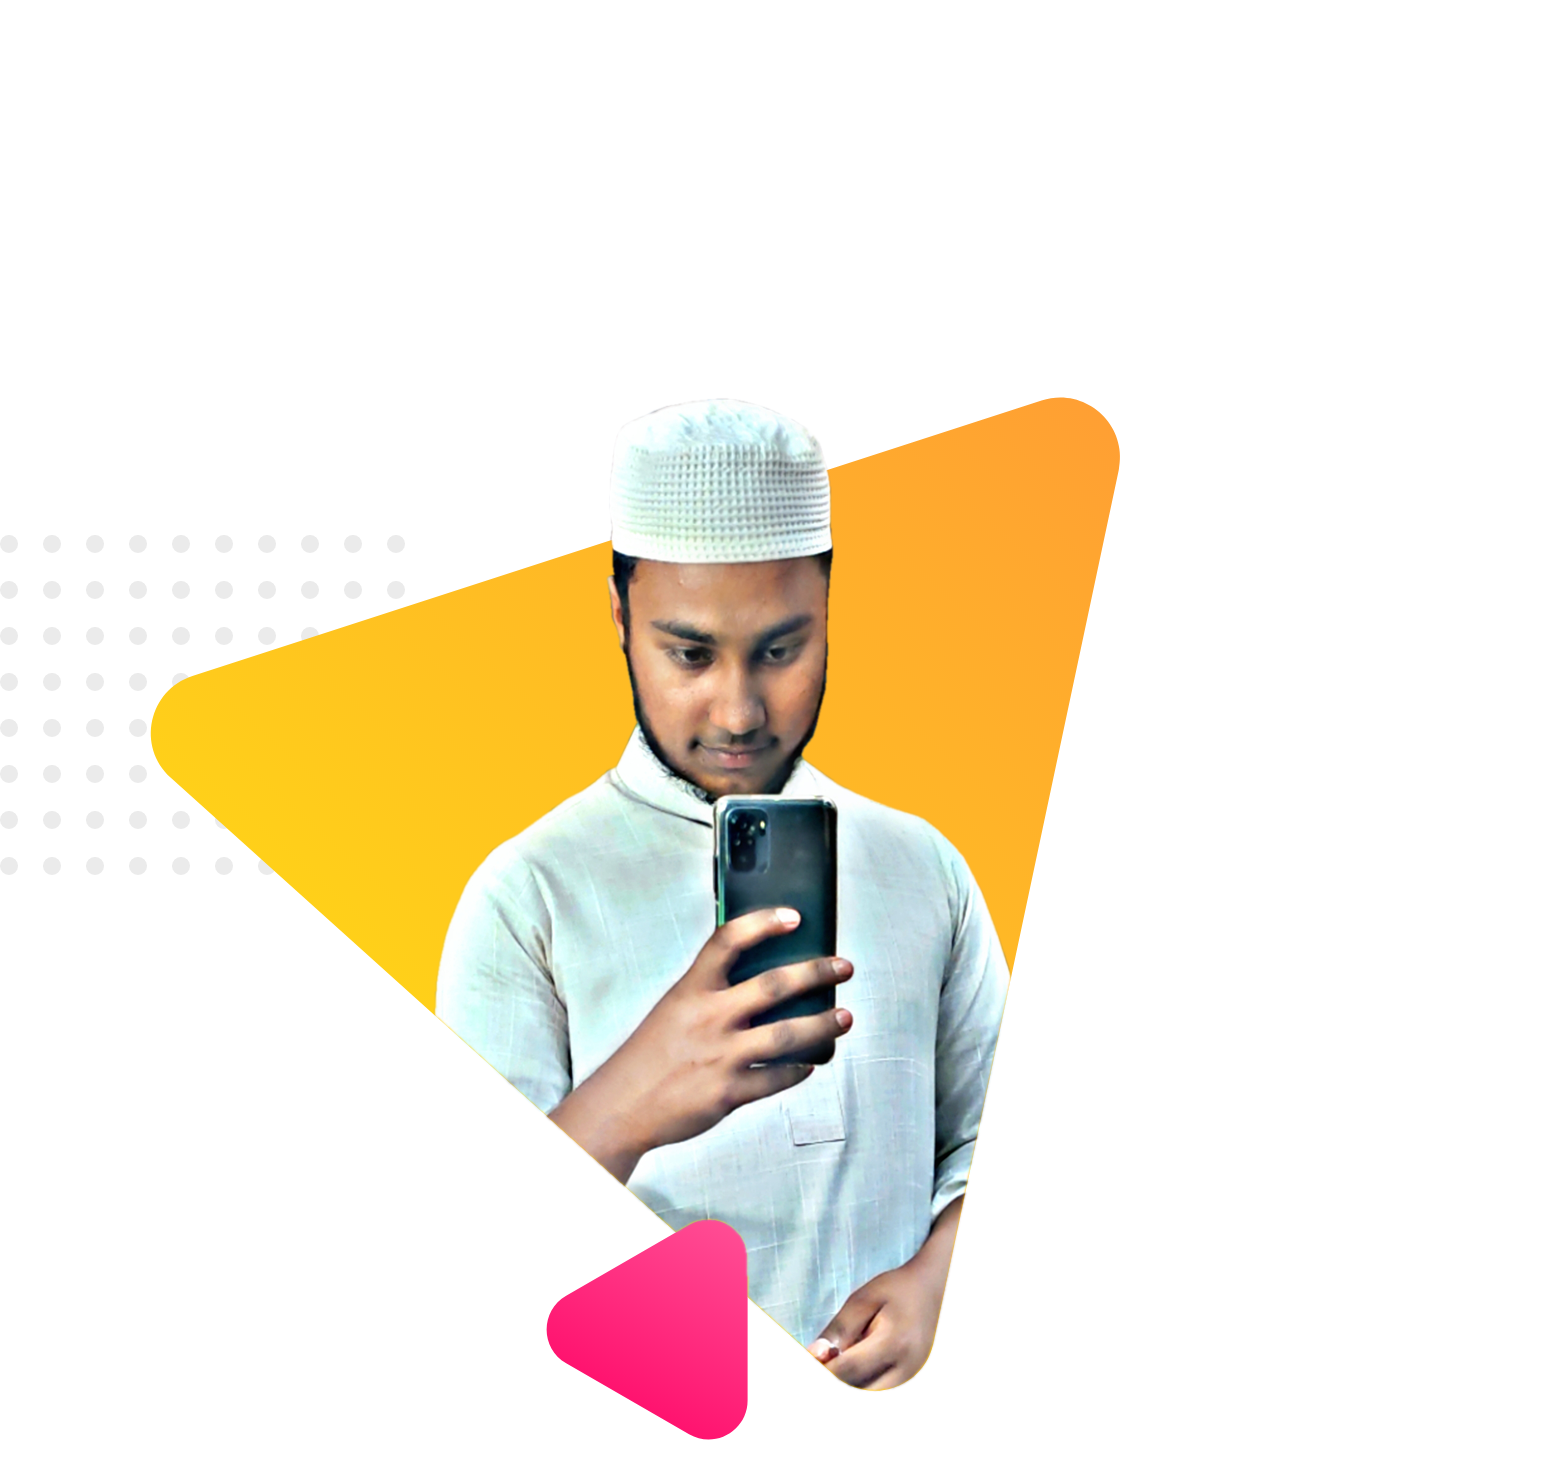
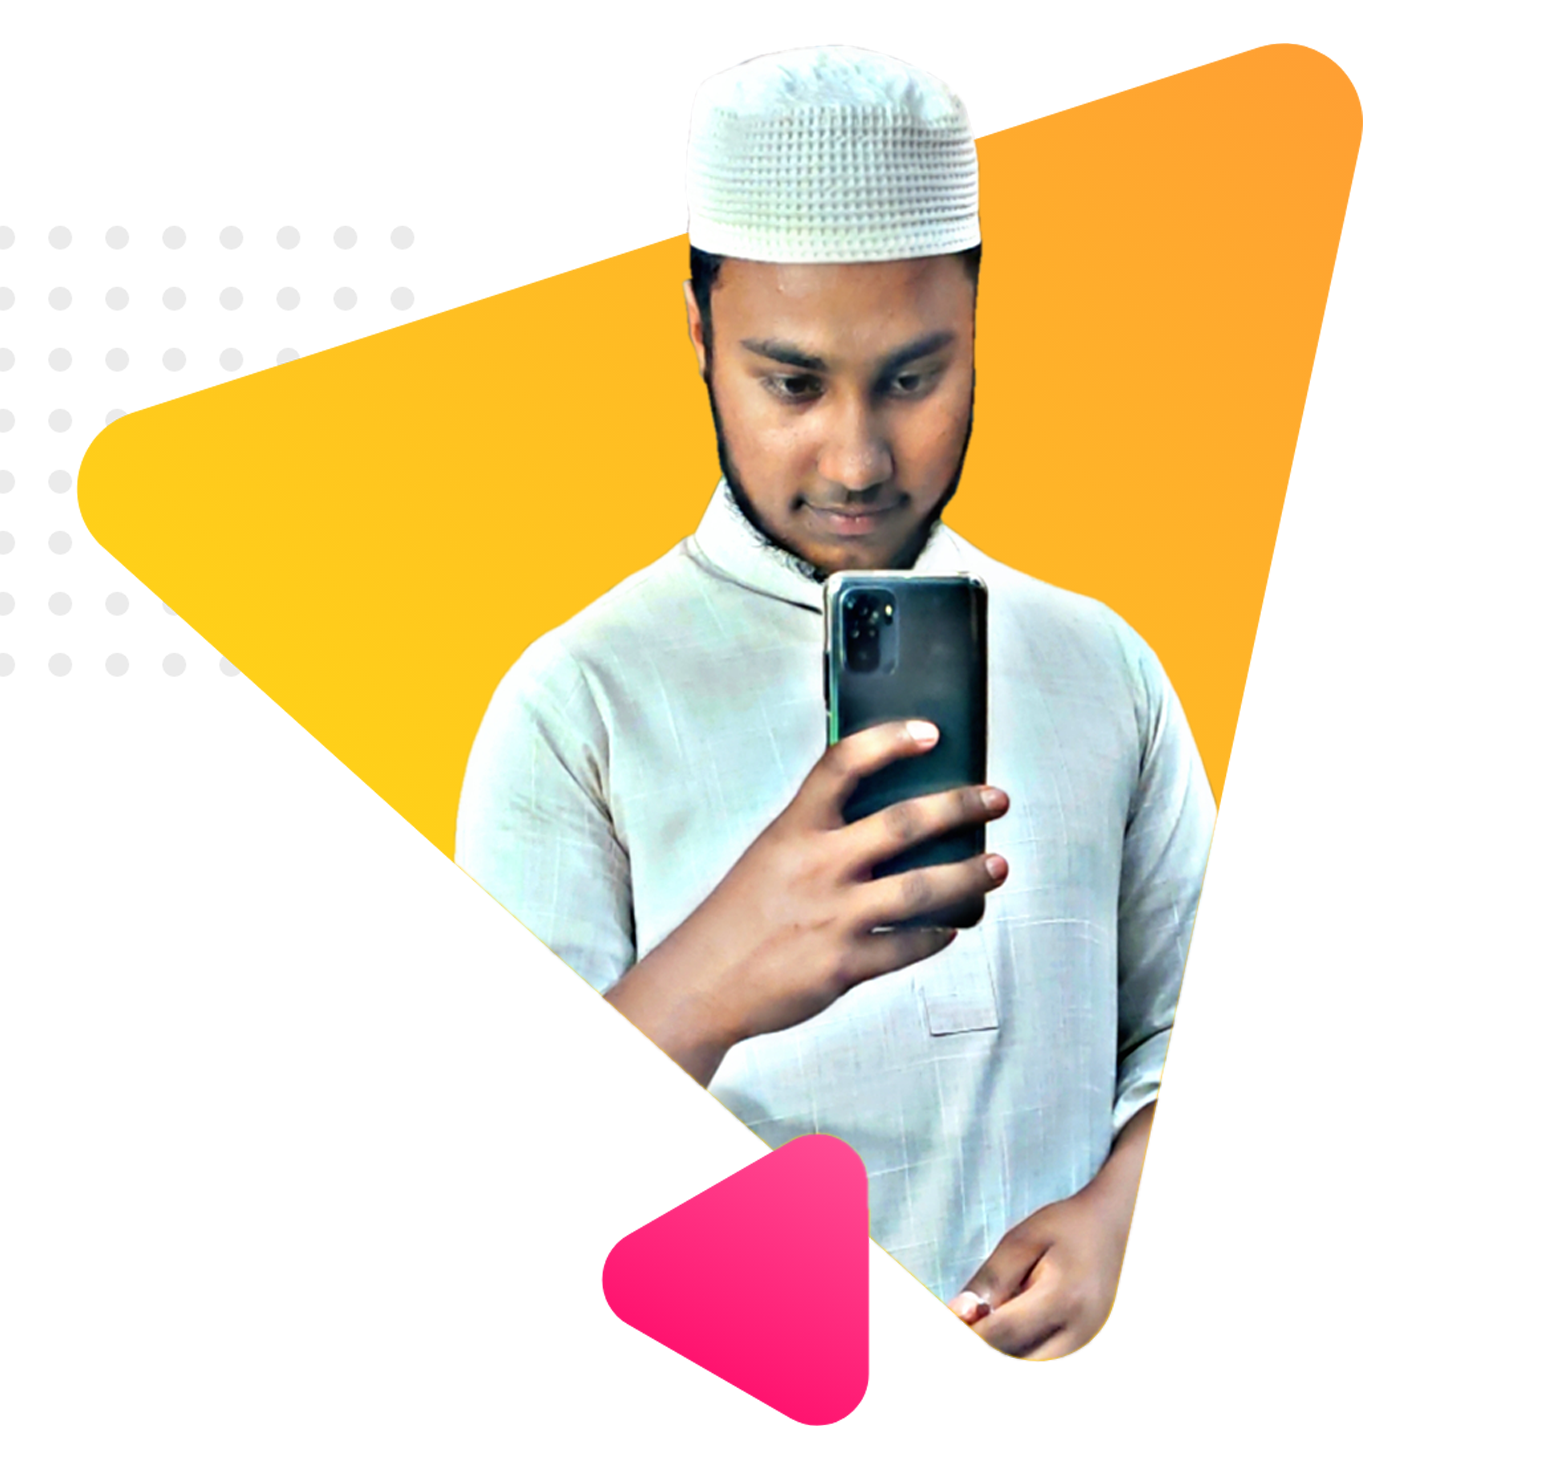
full update

diff --git a/index.html b/index.html
@@ -5,10 +5,94 @@
     <meta http-equiv="X-UA-Compatible" content="IE=edge">
     <meta name="viewport" content="width=device-width, initial-scale=1.0">
     <title>Robiul-Alam</title>
+
+    <link href="https://fonts.googleapis.com/css2?family=Lato&display=swap" rel="stylesheet">
+
+    <link rel="stylesheet" href="css-file.css">
 </head>
 <body>
 
-    <p>welcome to my site</p>
+    <section class="first-area">
+        <div id="padding" class="first-cotainer">
+            <h2>Hello I'm</h2>
+            <h1>Robiul Alam</h1>
+            <p class="paragraph">You might saw me jumping , climbing buildings , and stopping trains. <br> 
+            But nobody pays me a dime for that work .</p>
+
+            <a target="_blank" class="hire-me" href="https://web.facebook.com/MuhammadRobiulIslam76">HIRE ME</a>
+
+        </div>
+                
+
+        <div class="first-cotainer">
+            <img src="image/FIRST-profile.png" alt="">
+
+        </div>
+    </section>
+
+                                                                                                    
+
+
+<section class="secend-area">
+        <div class="secend-container">
+            <img src="image/secend-profile.png" alt="">
+    
+        </div>
+
+
+    <div id="secend-padding" class="secend-container">
+        <h1 class="title">Biography</h1>
+        <p class="paragraph">Lorem Ipsum is simply dummy text of the printing and typesetting industry . Lorem Ipsum has been the industry's standard dummy text ever since the 1500s , when an unknown printer took a galley of type and scrambled it to make a type</p>
+
+        <a target="_blank" class="download-cv" href="https://web.facebook.com/MuhammadRobiulIslam76">DOWNLOAD CV</a>
+    </div>
+
+</section>
+
+
+<section class="last-area">
+    <h2 class="letest-work">My Letest work</h2>
+
+<div id="ll">
+
+    <div class="last-container">
+        <img src="image/work-1.png" alt="">
+    </div>
+
+    <div class="last-container">
+        <img src="image/work-2.jpg" alt="">
+    </div>
+
+    <div class="last-container">
+        <img src="image/work-3.jpg" alt="">
+    </div>
+
+</div>
+</section>
+
+<section class="end">
+    <div class="last-title">
+        <h2>What Client are Say</h2>
+        <br>
+        <h5>Tuhfa Studio</h5>
+        <p id="ceo">Founder & ceo</p>
+
+        <p>Amar Sonar Bangla Ami Tomai Valobhashi <br>
+           Chirodin tomar Akash Tomar batash</p>
+    </div> <br>
+
+    <div class="last-text">
+        <p>Leave Me Message in the</p>
+        <h4>www.robiulislam76248546@gmail.com</h4>
+    </div> <br>
+    <div>
+        <p id="footer">Robiul Alam @ 2022 all Right Reseved</p>
+    </div>
+</section>
     
 </body>
+
+<footer>
+    
+</footer>
 </html>

diff --git a/css-file.css b/css-file.css
@@ -1,0 +1,133 @@
+body{
+    font-family: 'Lato', sans-serif;
+    margin: 0%;
+}
+
+h1{
+    font-size: 45px;
+    color: #ec4c7a;
+}
+
+.paragraph{
+    color: gray;
+}
+
+.first-cotainer{
+        padding-top: 150px;
+        width: 40%;
+        margin-left: 5%;
+        float: left;
+}
+#padding{
+    padding-left: 100px;
+}
+img{
+    width: 100%;
+    
+}
+.hire-me{
+    text-decoration: none;
+    font-weight: 800;
+    background-color: #ec4c7a;
+    border-radius: 5px;
+    color: white;
+    padding: 10px 30px;
+}
+
+.first-area{
+    background-image: url("image/first bg.png");
+    background-repeat: no-repeat;
+    height: 500px;
+}
+/*====================================================================================*/
+
+.secend-container{
+    margin-top: 70px;
+    width: 40%;
+    margin-left: 5%;
+    float: left;
+}
+#secend-padding{
+    padding-top: 70px;
+}
+
+.title{
+    color: black;
+}
+
+.download-cv{
+    text-decoration: none;
+    font-weight: 800;
+    background-color: #ec4c7a;
+    border-radius: 5px;
+    color: white;
+    padding: 10px 30px;
+}
+
+.secend-area{
+    margin-top: 150px;
+    background-image: url("image/secend-bg.png");
+    background-repeat: no-repeat;
+    height: 700px;
+}
+
+/*====================================================================================*/
+
+.letest-work{
+    color: black;
+    text-align: center;
+}
+
+.last-container{
+    margin-top: 70px;
+    width: 25%;
+    margin-left: 30px;
+    padding: 5px;
+    float: left;
+
+}
+
+.last-area{
+    background-image: url("image/bg.png");
+    background-repeat: no-repeat;
+    height: 400px;
+}
+#ll{
+    margin-left: 125px;
+   
+}
+/*====================================================================================*/
+
+.last-title{
+    text-align: center;
+}
+
+.last-text{
+    text-align: center;
+    color: white;
+    background-color: #ec4c7a;
+    padding: 10px 15px;
+    height: 90px;
+    width: 450px;
+    border-radius: 7px;
+    margin-left: 30%;
+    
+}
+#ceo{
+    color: gray;
+}
+.last-text{
+    text-align: center;
+}
+.end{
+    margin-top: 150px;
+    background-image: url("image/footer-bg.png");
+    background-repeat: no-repeat;
+    height: 500px;
+
+}
+#footer{
+    color: gray;
+    text-align: center;
+    margin-top: 100px;
+}
